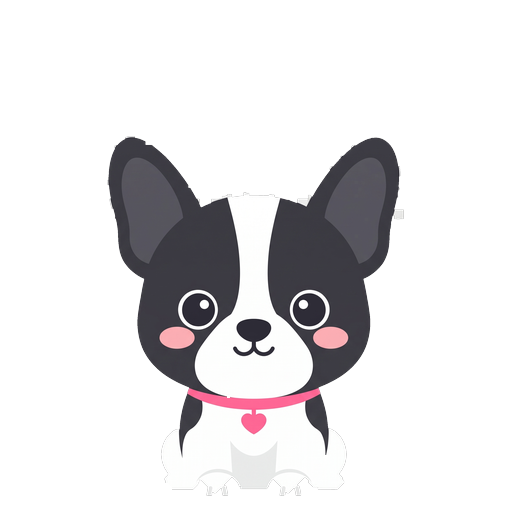
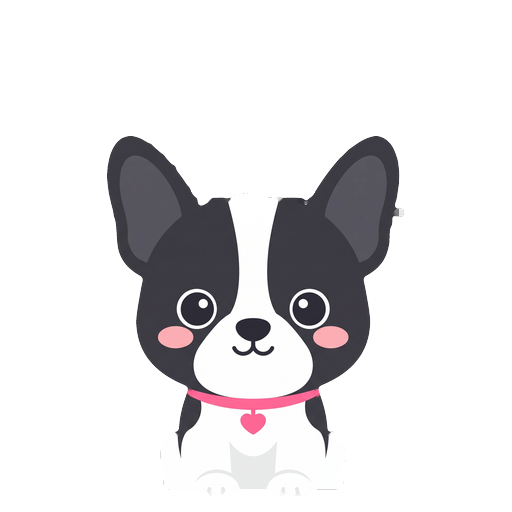
フレンチブルドッグ：いちまつの ますめを つかって きりぬきを つくりなおし（あし・マント・あたまの ガビガビを なおした）

diff --git a/tools_make_frenchbulldog.py b/tools_make_frenchbulldog.py
@@ -1,0 +1,203 @@
+# -*- coding: utf-8 -*-
+"""
+フレンチブルドッグ（01〜03）の きりぬき。いちまつ はいけいで、しろい からだと しろマスが
+くっつく ため、tools_make_dog_png.py では あしや ふちが ガビガビに なる。
+ここでは いちまつの ますめ（かくし）の いちを つかって、くっついた しろマスだけを おとす。
+
+つかいかた:  python tools_make_frenchbulldog.py        （img/frenchbulldog_lv1,lv3,lv5 を うわがき）
+  04（そっぽ）と 05（おやこ）は tools_make_dog_png.py の ままで よい。
+"""
+import os, sys
+from collections import deque
+import numpy as np
+from PIL import Image, ImageFilter
+
+sys.path.insert(0, '.')
+import tools_make_dog_png as T
+
+SRC = os.path.join('イラスト犬', 'frenchbulldog')
+# 3つめは しろマスと いぬの しろが ほぼ おなじ いろ（255 と 254）なので、マスの いちだけで はんだんする。
+# 1・2つめは しろマス（247〜248）が いぬの しろ（252〜254）より わずかに くらい ので いろでも はいけいに できる。
+JOBS = [('01', 'lv1', 360, 250, 220), ('02', 'lv3', 400, 250, 216), ('03', 'lv5', 440, 0, 216)]
+
+SAT_MAX = 26
+GREY_LO, GREY_HI = 178, 224       # はいマス（かげの 230〜240 は いれない）
+PURE_GREY = 0.90                  # マスの なんわりが はいいろなら「はいマス」
+WHITE_FILL = 0.95                 # マスの なんわりが しろなら「しろマス こうほ」
+ERODE_PX = 5                      # ふちを けずる（2048px のうえで）
+SMOOTH_SIGMA = 9.0                # りんかくを なめらかに
+
+
+GRID_P, GRID_O = 51.2, -1.2       # 2048px を 40マス。ますめの ふちは x = 51.2*k - 1.2
+
+
+def cell_classes(neutral, mn, grey):
+    """ますごとに「はいいろの わりあい」「しろの わりあい」を だす"""
+    H, W = grey.shape
+    cx = np.floor((np.arange(W) - GRID_O) / GRID_P).astype(int)
+    cy = np.floor((np.arange(H) - GRID_O) / GRID_P).astype(int)
+    nx, ny = cx.max() + 1, cy.max() + 1
+    idx = (cy[:, None] * nx + cx[None, :]).ravel()
+    # マスの ふちは JPEG の にじみが あるので、まんなか だけで しらべる
+    fx = (((np.arange(W) - GRID_O) / GRID_P) % 1.0) * GRID_P
+    fy = (((np.arange(H) - GRID_O) / GRID_P) % 1.0) * GRID_P
+    inner = ((fy[:, None] > 7) & (fy[:, None] < GRID_P - 7) &
+             (fx[None, :] > 7) & (fx[None, :] < GRID_P - 7)).ravel().astype(float)
+    tot = np.bincount(idx, weights=inner, minlength=nx * ny)
+    g = np.bincount(idx, weights=grey.ravel() * inner, minlength=nx * ny) / np.maximum(tot, 1)
+    w = np.bincount(idx, weights=(neutral & (mn >= 238)).ravel() * inner,
+                    minlength=nx * ny) / np.maximum(tot, 1)
+    pure = (g >= PURE_GREY).reshape(ny, nx)
+    white = (w >= WHITE_FILL).reshape(ny, nx)
+    nogrey = (g < 0.05).reshape(ny, nx)
+    return pure, white, nogrey, cx, cy
+
+
+def segment(path, white_hi=0, grey_hi=GREY_HI):
+    im = Image.open(path).convert('RGB')
+    a = np.asarray(im).astype(np.int16)
+    H, W = a.shape[:2]
+    mn, mx = a.min(-1), a.max(-1)
+    neutral = (mx - mn) <= SAT_MAX
+    grey = neutral & (mn >= GREY_LO) & (mn < grey_hi)
+    pure, white, nogrey, cx, cy = cell_classes(neutral, mn, grey)
+    ny, nx = pure.shape
+
+    def pure_at(j, i):
+        if j < 0 or i < 0 or j >= ny or i >= nx:
+            return True               # がめんの そとは はいけい あつかい
+        return pure[j, i]
+
+    # しろマスの うち、まわりの 2ほう いじょうが はいマスに ふれて いるものは はいけい
+    bgwhite_cells = np.zeros((ny, nx), bool)
+    fullwhite = np.zeros((ny, nx), bool)
+    # はいマスの ならび（ぐうすう/きすう）を しらべる。しろマスは その はんたい。
+    par = [0, 0]
+    for j in range(ny):
+        for i in range(nx):
+            if pure[j, i]:
+                par[(i + j) % 2] += 1
+    white_par = 1 - (0 if par[0] >= par[1] else 1)
+    for j in range(ny):
+        for i in range(nx):
+            if (i + j) % 2 != white_par:
+                continue          # はいマスの ならびは いろ（はいいろ）で けすので ここでは さわらない
+            # はいいろが ない マス（しろマス、または いぬの ふちが すこし かかった しろマス）で、
+            # まわりの 2ほう いじょうが はいマスに ふれて いるものは はいけいの しろマス
+            if white[j, i] or nogrey[j, i]:
+                n = sum(pure_at(j + dj, i + di) for dj, di in ((1,0),(-1,0),(0,1),(0,-1)))
+                if n >= 2:
+                    bgwhite_cells[j, i] = True
+                    fullwhite[j, i] = bool(white[j, i])
+    cellbg = bgwhite_cells[cy[:, None], cx[None, :]]
+    cellfull = fullwhite[cy[:, None], cx[None, :]]
+    # まるごと しろい マスは いろみの ない ものを ぜんぶ、
+    # いぬの ふちが かかった マスは ほとんど まっしろな ところだけ（くろい ふちは まもる）
+    inwhite = (cellfull & neutral & (mn >= 200)) | (cellbg & ~cellfull & neutral & (mn >= 232))
+
+    bgpix = grey | inwhite
+    if white_hi:
+        bgpix = bgpix | (neutral & (mn >= 238) & (mn <= white_hi))
+    # ふちから つながる はいけい
+    flat = bgpix.ravel()
+    seen = np.zeros(H * W, bool)
+    q = deque()
+    for x in range(W):
+        for y in (0, H - 1):
+            k = y * W + x
+            if flat[k] and not seen[k]:
+                seen[k] = True; q.append(k)
+    for y in range(H):
+        for x in (0, W - 1):
+            k = y * W + x
+            if flat[k] and not seen[k]:
+                seen[k] = True; q.append(k)
+    while q:
+        k = q.popleft()
+        y, x = divmod(k, W)
+        if x > 0 and flat[k - 1] and not seen[k - 1]: seen[k - 1] = True; q.append(k - 1)
+        if x < W - 1 and flat[k + 1] and not seen[k + 1]: seen[k + 1] = True; q.append(k + 1)
+        if y > 0 and flat[k - W] and not seen[k - W]: seen[k - W] = True; q.append(k - W)
+        if y < H - 1 and flat[k + W] and not seen[k + W]: seen[k + W] = True; q.append(k + W)
+    bg = seen.reshape(H, W)
+
+    # からだに かこまれて のこった はいマス（あなの しろマス・はいマス）。
+    # いろみが ほとんど ない（かげの ベージュは ちがう）ものだけ けす。
+    flatneu = ((mx - mn) <= 5) & bgpix & ~bg
+    # ほそい わっか（めの しろい ふち・みみの ふちの ぼかし）は のこす。
+    # 13px の しかくが はいる ふとい かたまり（ますめの ごみ）だけ けす。
+    thick = np.asarray(Image.fromarray((flatneu * 255).astype(np.uint8)).filter(ImageFilter.MinFilter(13))) > 127
+    thick = thick.ravel()
+    hole = np.zeros(H * W, bool)
+    f2 = flatneu.ravel()
+    seen2 = np.zeros(H * W, bool)
+    for s in np.flatnonzero(f2):
+        if seen2[s]:
+            continue
+        comp = [s]; seen2[s] = True; qq = deque([s])
+        while qq:
+            k = qq.popleft(); y, x = divmod(k, W)
+            for nk, ok in ((k - 1, x > 0), (k + 1, x < W - 1), (k - W, y > 0), (k + W, y < H - 1)):
+                if ok and f2[nk] and not seen2[nk]:
+                    seen2[nk] = True; qq.append(nk); comp.append(nk)
+        if len(comp) < 60000 and thick[comp].any():
+            hole[comp] = True
+    bg = bg | hole.reshape(H, W)
+
+    fg = ~bg
+    # くろい ふちの そとがわに のこった しろい かけら（ふちの かかった しろマスの はんぱ）を けす。
+    # はいけいに ふれて いて、ちいさい（6000px みまん）しろの かたまりだけ。
+    # めの しろい ふち・ひかりは はいけいに ふれない ので のこる。
+    whitepix = fg & neutral & (mn >= 238)
+    bgdil = np.asarray(Image.fromarray(((~fg) * 255).astype(np.uint8)).filter(ImageFilter.MaxFilter(7))) > 127
+    wf = whitepix.ravel(); bd = bgdil.ravel(); wl = np.zeros(H * W, bool)
+    seenw = np.zeros(H * W, bool)
+    for s0 in np.flatnonzero(wf):
+        if seenw[s0]:
+            continue
+        comp = [s0]; seenw[s0] = True; qq = deque([s0]); touch = bool(bd[s0])
+        while qq:
+            k = qq.popleft(); y, x = divmod(k, W)
+            for nk, ok in ((k - 1, x > 0), (k + 1, x < W - 1), (k - W, y > 0), (k + W, y < H - 1)):
+                if ok and wf[nk] and not seenw[nk]:
+                    seenw[nk] = True; qq.append(nk); comp.append(nk)
+                    if bd[nk]: touch = True
+        if touch and len(comp) < 6000:
+            wl[comp] = True
+    fg = fg & ~wl.reshape(H, W)
+    # さきに ふちを けずる。ますの さかいめの ほそい せんで くっついた しろマスを きりはなす。
+    fgi = Image.fromarray((fg * 255).astype(np.uint8)).filter(ImageFilter.MinFilter(2 * ERODE_PX + 1))
+    # いちばん おおきい かたまりだけ のこす（ちいさい ごみを すてる）
+    arr = np.asarray(fgi) > 127
+    flatf = arr.ravel(); lab = np.zeros(H * W, np.int32); sizes = []
+    for s in np.flatnonzero(flatf):
+        if lab[s]:
+            continue
+        sizes.append(0); n = len(sizes); lab[s] = n; qq = deque([s])
+        while qq:
+            k = qq.popleft(); sizes[-1] += 1; y, x = divmod(k, W)
+            for nk, ok in ((k - 1, x > 0), (k + 1, x < W - 1), (k - W, y > 0), (k + W, y < H - 1)):
+                if ok and flatf[nk] and not lab[nk]:
+                    lab[nk] = n; qq.append(nk)
+    big = max(sizes)
+    keep = np.zeros(len(sizes) + 1, bool)
+    for n, sz in enumerate(sizes, 1):
+        keep[n] = sz >= big * 0.02
+    arr = keep[lab].reshape(H, W)
+    m = Image.fromarray((arr * 255).astype(np.uint8))
+    # りんかくを なめらかに
+    m = m.filter(ImageFilter.GaussianBlur(SMOOTH_SIGMA)).point(lambda v: 255 if v > 127 else 0)
+    return im, m
+
+
+def main():
+    for stem, pose, th, whi, ghi in JOBS:
+        src = os.path.join(SRC, stem + '.jpg')
+        print(stem, pose, '...', flush=True)
+        im, mask = segment(src, whi, ghi)
+        T.finish(im.convert('RGBA'), mask, 'frenchbulldog_%s.png' % pose,
+                 th, 'bottom', src, 'ますめ ベース', True)
+
+
+if __name__ == '__main__':
+    main()

diff --git a/tools_fix_frenchbulldog.py b/tools_fix_frenchbulldog.py
@@ -1,38 +1,126 @@
 # -*- coding: utf-8 -*-
 """
-フレンチブルドッグの しあげ。tools_make_dog_png.py frenchbulldog の あとに じっこう する。
-いちまつの はいいろマスが からだに かこまれて のこった ちいさな ごみ（はいいろの しかく）を けす。
+フレンチブルドッグ lv1 / lv3 の しあげ。tools_make_frenchbulldog.py の あとに じっこう する。
+あたまの てっぺんの しろい すじ（おでこ）が、まわりの しろマスと くっついて
+くろい あたまの まるみ より うえに はみだし、ガビガビに なる。
+くろい あたまの へりを つないだ まるみで、はみだした しろい ぶぶんを きる。
 """
 import numpy as np
-from collections import deque
-from PIL import Image, ImageFilter
+from PIL import Image
 
-for name in ('lv1', 'lv3', 'lv5'):
+for name in ('lv1', 'lv3'):
     path = 'img/frenchbulldog_%s.png' % name
     a = np.asarray(Image.open(path).convert('RGBA')).copy()
+    H, W = a.shape[:2]
     c = a[..., :3].astype(int)
-    sat = c.max(-1) - c.min(-1); val = c.max(-1)
-    H, W = val.shape
-    ys = np.where(a[..., 3] > 8)[0]
-    grey = (a[..., 3] > 8) & (sat < 14) & (val >= 180) & (val <= 224)
-    dark = Image.fromarray(((val < 120) & (a[..., 3] > 8)).astype(np.uint8) * 255).filter(ImageFilter.MaxFilter(9))
-    dark = np.asarray(dark) > 127                                # くろ・ふちの そばは まもる
-    seen = np.zeros_like(grey)
-    kill = np.zeros_like(grey)
-    for y0, x0 in zip(*np.where(grey)):
+    lum = c.mean(-1)
+    solid = a[..., 3] > 128
+    dark = solid & (lum < 110)
+    ys, xs = np.where(solid)
+    top = ys.min()
+    limit = top + int((ys.max() - top) * 0.45)       # あたまの ぶぶんだけ しらべる
+
+    dark_top = np.full(W, -1)
+    for x in range(W):
+        col = np.where(dark[:limit, x])[0]
+        if len(col):
+            dark_top[x] = col[0]
+    # おでこの すじ：くろい ぶぶんが ない れつ（あたまの うえの ほうに）の いちばん ながい れんぞく
+    hasdark = dark_top >= 0
+    hassolid = solid[:limit].any(0)
+    cx0, cx1 = xs.min() + (xs.max() - xs.min()) // 5, xs.max() - (xs.max() - xs.min()) // 5
+    central = dark_top[cx0:cx1][dark_top[cx0:cx1] >= 0]
+    ref0 = int(np.percentile(central, 60))          # あたまの まるみの たかさ（めやす）
+    stripe = hassolid & ((~hasdark) | (dark_top > ref0 + 25))
+    stripe[:cx0] = False; stripe[cx1:] = False
+    best, cur0 = (0, 0), None
+    for x in range(W + 1):
+        if x < W and stripe[x]:
+            if cur0 is None: cur0 = x
+        else:
+            if cur0 is not None and x - cur0 > best[1] - best[0]:
+                best = (cur0, x)
+            cur0 = None
+    xa, xb = best
+    if xb - xa < 8:
+        print(name, 'おでこが みつからない'); continue
+    # りょうがわの くろい あたまの まるみ：すじに ちかい れつは へりが ななめで ふかい ので、
+    # すじから すこし はなれた ところで いちばん うえの れつを えらぶ
+    def arc_col(rng):
+        cand = [x for x in rng if 0 <= x < W and dark_top[x] >= 0]
+        ref = min(dark_top[x] for x in cand)
+        for x in rng:                                  # すじに ちかい ほうから
+            if 0 <= x < W and 0 <= dark_top[x] <= ref + 5:
+                return x
+        return cand[0]
+    xl = arc_col(range(xa - 1, xa - 45, -1))
+    xr = arc_col(range(xb, xb + 45))
+    yl, yr = dark_top[xl], dark_top[xr]
+    n = 0
+    for x in range(xl, xr + 1):
+        t = (x - xl) / float(max(1, xr - xl))
+        y_arc = yl + (yr - yl) * t - 0.07 * (xr - xl) * np.sin(np.pi * t)   # すこし まるく
+        y0 = int(round(y_arc))
+        # このれつで y0 より うえに ある ふとうめい を けす
+        col = a[:y0, x, 3]
+        n += int((col > 0).sum())
+        a[:y0, x, 3] = 0
+    # りょうがわの ちいさな しろい かけら（ふちの そと）
+    for x in range(W):
+        if xl <= x <= xr or dark_top[x] < 0:
+            continue
+        seg = a[:dark_top[x], x]
+        white = (seg[..., 3] > 0) & (seg[..., :3].astype(int).mean(-1) > 130)
+        n += int(white.sum())
+        seg[white, 3] = 0
+    # ひとりぼっちの ちいさな かけら（80px みまん）を けす
+    op = a[..., 3] > 20
+    seen = np.zeros_like(op)
+    for y0, x0 in zip(*np.where(op)):
         if seen[y0, x0]:
             continue
-        comp = []; q = deque([(y0, x0)]); seen[y0, x0] = True
-        while q:
-            y, x = q.popleft(); comp.append((y, x))
-            for dy, dx in ((1,0),(-1,0),(0,1),(0,-1)):
-                yy, xx = y + dy, x + dx
-                if 0 <= yy < H and 0 <= xx < W and grey[yy, xx] and not seen[yy, xx]:
-                    seen[yy, xx] = True; q.append((yy, xx))
-        if len(comp) < 700 and not any(dark[y, x] for y, x in comp):
-            for y, x in comp: kill[y, x] = True
-    m = Image.fromarray((kill * 255).astype(np.uint8)).filter(ImageFilter.MaxFilter(3))
-    kill = np.asarray(m) > 127
-    a[..., 3][kill] = 0
+        comp = [(y0, x0)]; seen[y0, x0] = True; i = 0
+        while i < len(comp):
+            y, x = comp[i]; i += 1
+            for dy in (-1, 0, 1):
+                for dx in (-1, 0, 1):
+                    yy, xx = y + dy, x + dx
+                    if 0 <= yy < H and 0 <= xx < W and op[yy, xx] and not seen[yy, xx]:
+                        seen[yy, xx] = True; comp.append((yy, xx))
+        if len(comp) < 80:
+            for y, x in comp:
+                a[y, x, 3] = 0
     Image.fromarray(a, 'RGBA').save(path, optimize=True)
-    print(name, int(kill.sum()), 'px removed')
+    print(name, 'おでこ', xa, xb, '/ けした', n, 'px')
+
+
+# ふちの いろを うちがわの いろで ぬりなおす（はいけいの はいいろが にじんだ ほそい ふちどりを けす）
+from PIL import ImageFilter
+
+
+def decontaminate(path):
+    a = np.asarray(Image.open(path).convert('RGBA')).copy()
+    alpha = a[..., 3]
+    inner = np.asarray(Image.fromarray(((alpha > 250) * 255).astype(np.uint8))
+                       .filter(ImageFilter.MinFilter(5))) > 127
+    known = inner.copy()
+    rgb = a[..., :3].astype(np.float64)
+    for _ in range(4):                                # ふちの 4px ぶんを うちがわから ひろげる
+        acc = np.zeros_like(rgb); cnt = np.zeros(known.shape)
+        for dy in (-1, 0, 1):
+            for dx in (-1, 0, 1):
+                if dy == 0 and dx == 0:
+                    continue
+                k = np.roll(np.roll(known, dy, 0), dx, 1)
+                acc += np.roll(np.roll(rgb, dy, 0), dx, 1) * k[..., None]
+                cnt += k
+        new = (~known) & (cnt > 0) & (alpha > 0)
+        rgb[new] = acc[new] / cnt[new][:, None]
+        known = known | new
+    a[..., :3] = np.clip(rgb + 0.5, 0, 255).astype(np.uint8)
+    Image.fromarray(a, 'RGBA').save(path, optimize=True)
+
+
+for name in ('lv1', 'lv3', 'lv5'):
+    decontaminate('img/frenchbulldog_%s.png' % name)
+    print(name, 'ふちを ぬりなおした')

diff --git a/HANDOFF.md b/HANDOFF.md
@@ -19,11 +19,12 @@
   （`tools_make_dog_png.py plush` は全部を作り直すので重い。F・G は img へ直接コピー済み）
 - 手元の確認: チケットで F を取得、F コンプリート後に G が出る、までブラウザで確認済み。`park` クリア時の付与そのものは未プレイ（コードのみ）
 
-## フレンチブルの足元（修正済み）
-- 原因：元絵 01〜04 は「いちまつ」背景。白い体の影（226〜240）が背景のグレーと間違われて足先が削れていた
-- `tools_make_dog_png.py` に `BG_RANGES` を追加。フレンチブルは 01〜03 だけ「グレー178〜224＋白マス238〜249」を背景にする（04 は影と白マスが同じ色なので従来のまま）
-- 仕上げ `tools_fix_frenchbulldog.py`：体に囲まれて残った小さなグレーの四角を消す。**`python tools_make_dog_png.py frenchbulldog` のあとに実行**
-- 小さな白いカケラが lv5 の王冠のそば・lv1 の右耳に少し残っている（目立たない程度）
+## フレンチブルの切り抜き（作り直し済み）
+- 原因：元絵 01〜03 は市松（グレー×白）背景で、白い体と背景の白マスがくっつき、体の影（226〜240）も背景に間違われて足先・縁がガビガビだった。04（そっぽ）は影と白マスが同じ色なので従来のまま、05（おやこ）は緑背景で問題なし
+- 市松は 2048px を 40マス（1マス 51.2px、縁は x=51.2k−1.2）。`tools_make_frenchbulldog.py` がこの格子を使って「周りをグレーのマスに囲まれた白マス」だけを背景にし、縁を削って輪郭をなめらかにする（lv1/lv3/lv5 を img に上書き）
+- 仕上げ `tools_fix_frenchbulldog.py`：おでこの白が頭のまるみからはみ出すのを切る／ごく小さなカケラを消す／縁の色を内側の色で塗り直してグレーの縁取りを消す
+- 作り直す手順：`python tools_make_frenchbulldog.py` → `python tools_fix_frenchbulldog.py`（`tools_make_dog_png.py frenchbulldog` を実行すると lv1/3/5 が元に戻るので、その後にこの2つを再実行）
+- 小さな残り：lv1 の頭のてっぺん（耳のつけ根）に細かい凹凸、右耳の横にごく小さなグレーの点
 
 ## 決定事項
 - 「トップ画面」＝犬を表示するマップ画面と解釈（違えば移す）
